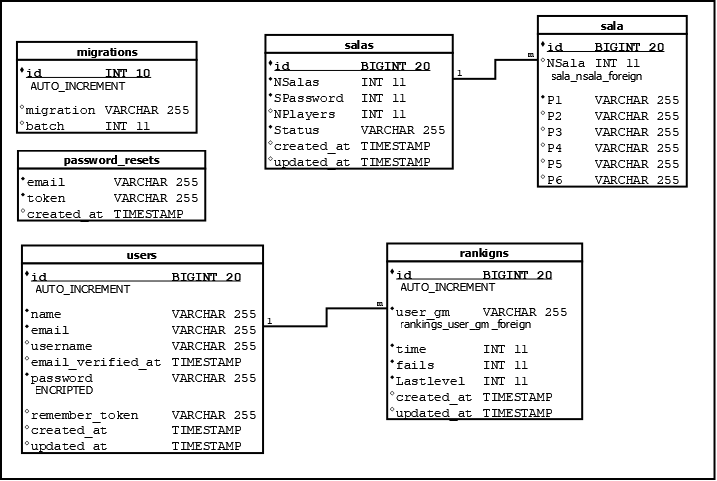
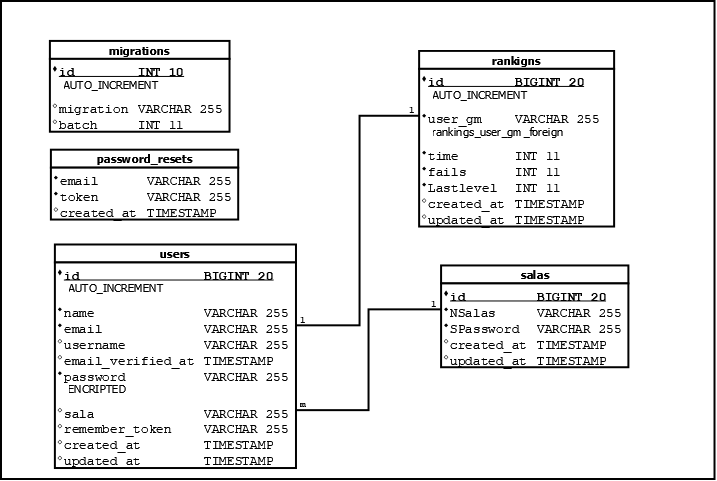
Cosas de PHP Peater

Changed region(s): [[0.0307, 0.0312, 0.9819, 0.9979], [0.0, 0.0624, 0.3375, 0.4678]]

diff --git a/public/js/multi.js b/public/js/multi.js
@@ -4,4 +4,5 @@
         var random = Math.floor(Math.random()* (9999 - 1)+1);
         $("input[name=nsala]").val(random);
         $("#show").hide();
+        $(".lista").hide();
     }

diff --git a/resources/views/windows/multiMenu.blade.php b/resources/views/windows/multiMenu.blade.php
@@ -21,14 +21,14 @@
                                     <form action="{{ route('multisala')}}" method="post" id="formSpas" style="display: none">
                                         @csrf
                                         <label for="nsala">Numero de la sala:</label><br/>
-                                        <input type="text" name="nsala" id="nsala" disabled value="0"><br/>
+                                        <input type="text" name="nsala" id="nsala" value="Pepinos"><br/>
                                         <label for="spas">Password Sala:</label><br/>
                                         <input type="text" name="spas" id="spas" ><br/>
                                         <button class="btn btn-lg btn-primary" type="submit">Jugar</button>
                                     </form>
                                 </div>
                             </div>
-                            <div class="row justify-content-md-center">
+                            <div class="row justify-content-md-center lista">
                                 <div class="col-md-auto mb-5">
                                     <p class="mb-2">Unirse a sala
                                         <a class="btn btn-lg btn-primary" role="button" href="{{ route('multiRoomList')}}">Lista</a>   

diff --git a/database/seeds/DatabaseSeeder.php b/database/seeds/DatabaseSeeder.php
@@ -23,7 +23,7 @@ class DatabaseSeeder extends Seeder
             'email' => 'ng@gmail.com',
             'username' => 'nilarrus',
             'password' => Hash::make('12345678'),
-            'sala' => 0,
+            'sala' => 'Matrix',
         ]);
         App\Ranking::create([
             'user_gm' => 'ng@gmail.com',
@@ -40,7 +40,7 @@ class DatabaseSeeder extends Seeder
                 'name' => $faker->name,
                 'email' => $emailF,
                 'password' => Hash::make('12345678'),
-                'sala' =>0,
+                'sala' =>'Matrix',
             ]);
             
 

diff --git a/database/migrations/2021_02_02_2_create_users_table.php b/database/migrations/2021_02_02_2_create_users_table.php
@@ -20,7 +20,7 @@ class CreateUsersTable extends Migration
             $table->string('username')->nullable();
             $table->timestamp('email_verified_at')->nullable();
             $table->string('password');
-            $table->integer('sala');
+            $table->string('sala');
             $table->rememberToken();
             $table->timestamps();
 

diff --git a/database/migrations/2021_02_02_1_multiplayer_tables.php b/database/migrations/2021_02_02_1_multiplayer_tables.php
@@ -16,7 +16,7 @@ class MultiplayerTables extends Migration
         //Main Rooms
         Schema::create('salas', function (Blueprint $table) {
             $table->id();
-            $table->integer('NSala')->unique();
+            $table->string('NSala')->unique();
             $table->string('SPassword');
             $table->timestamps();
             
